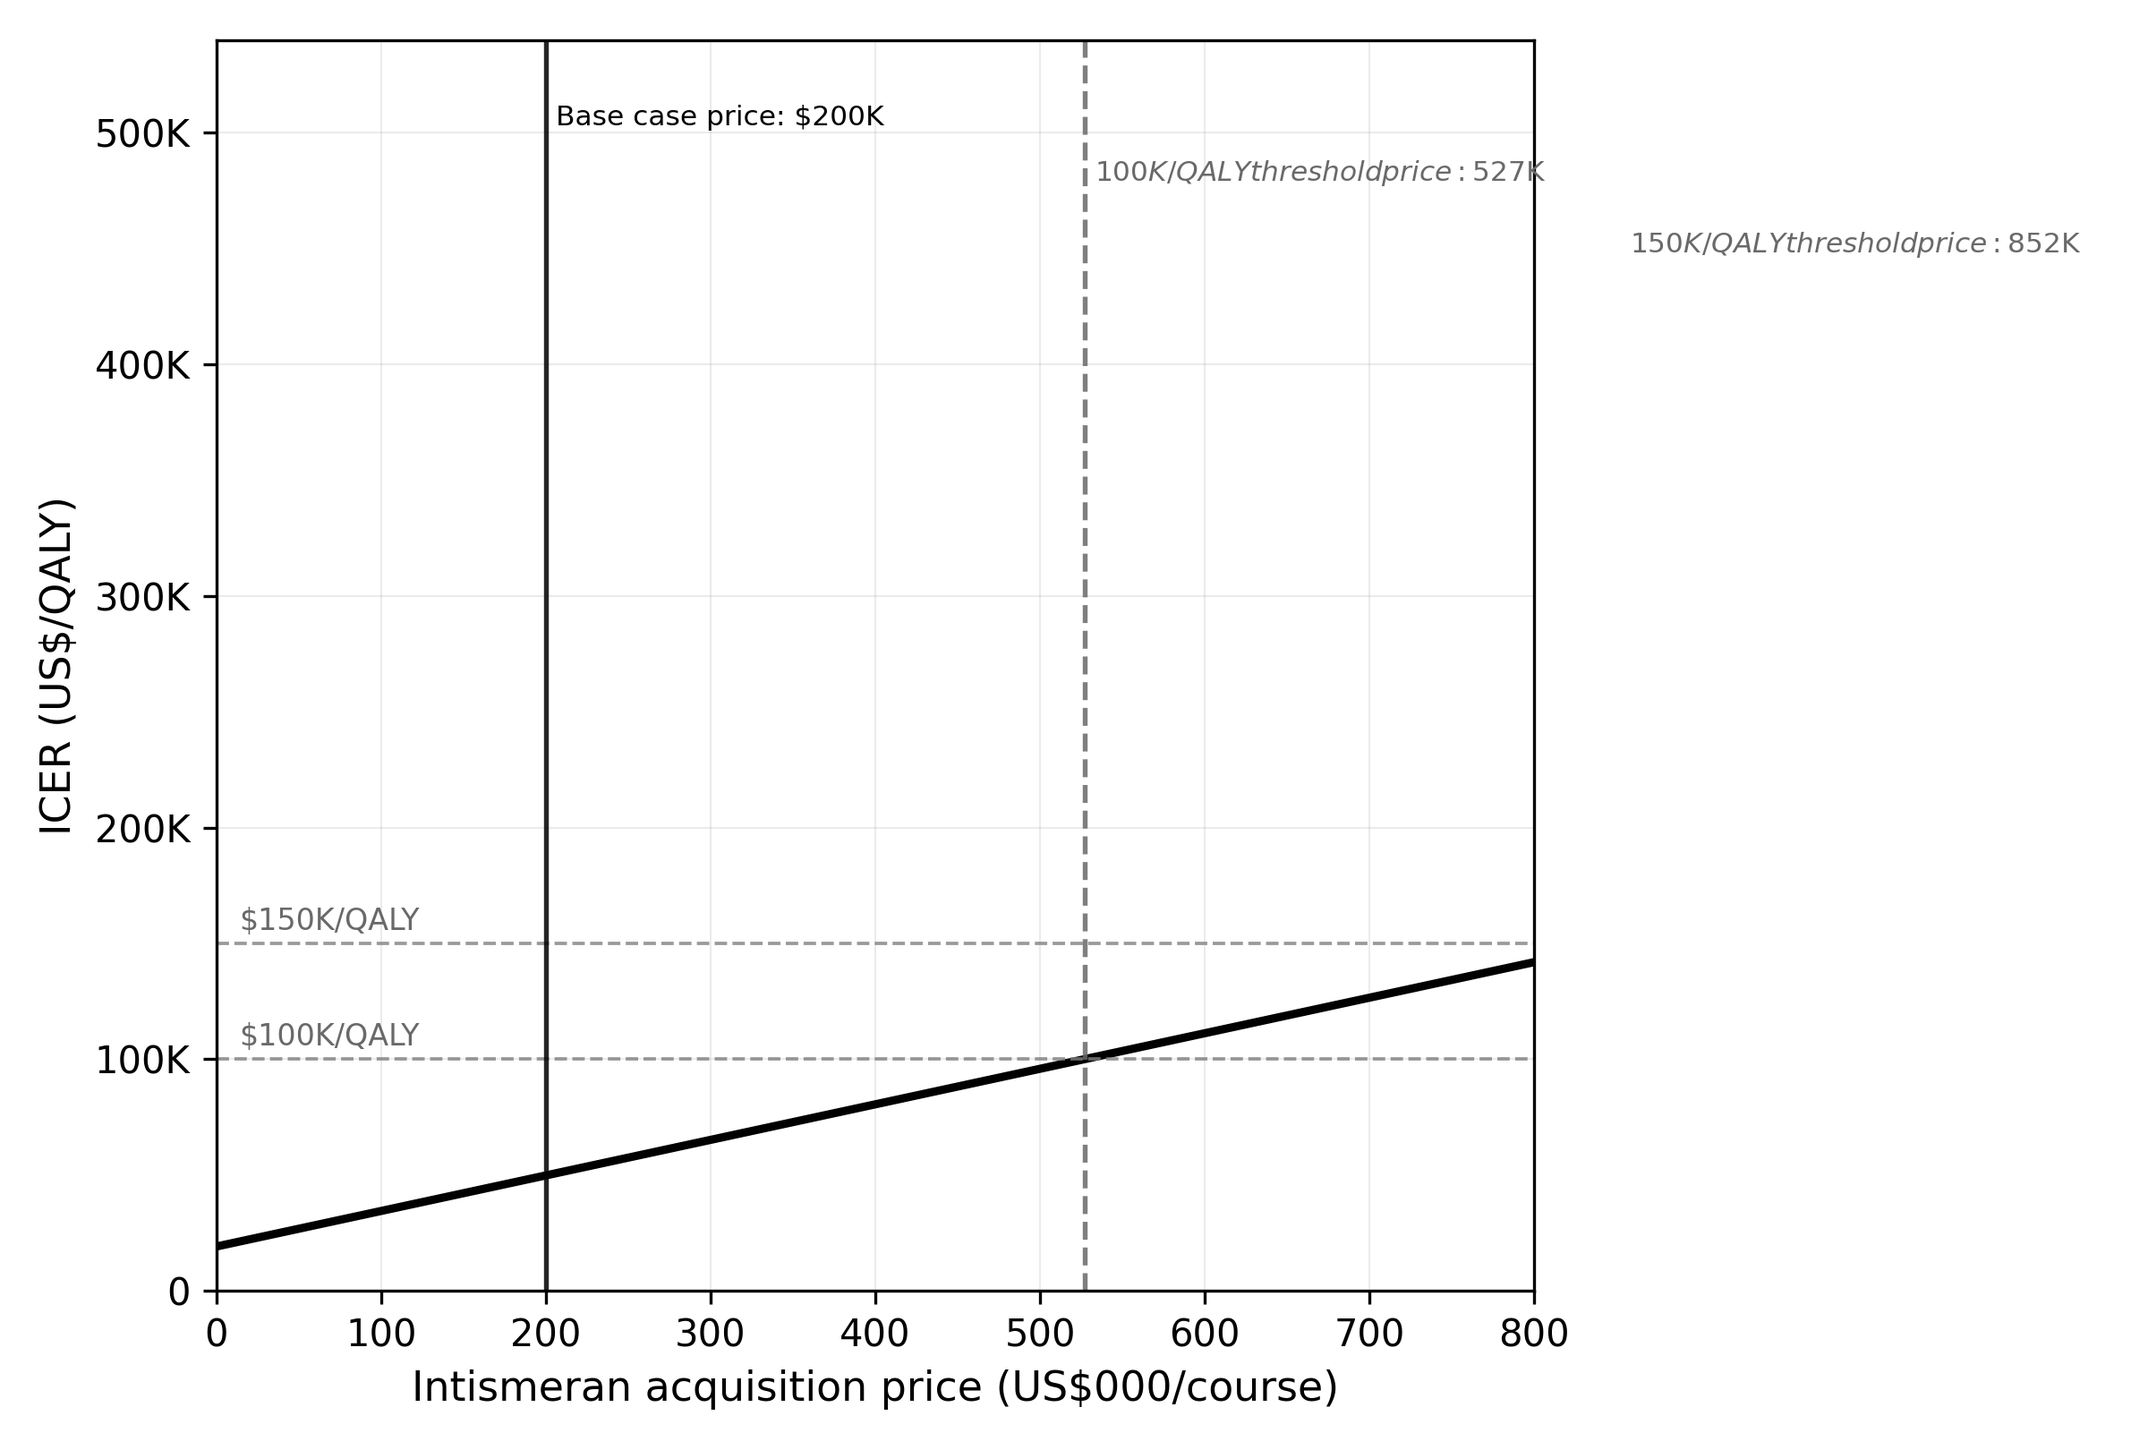
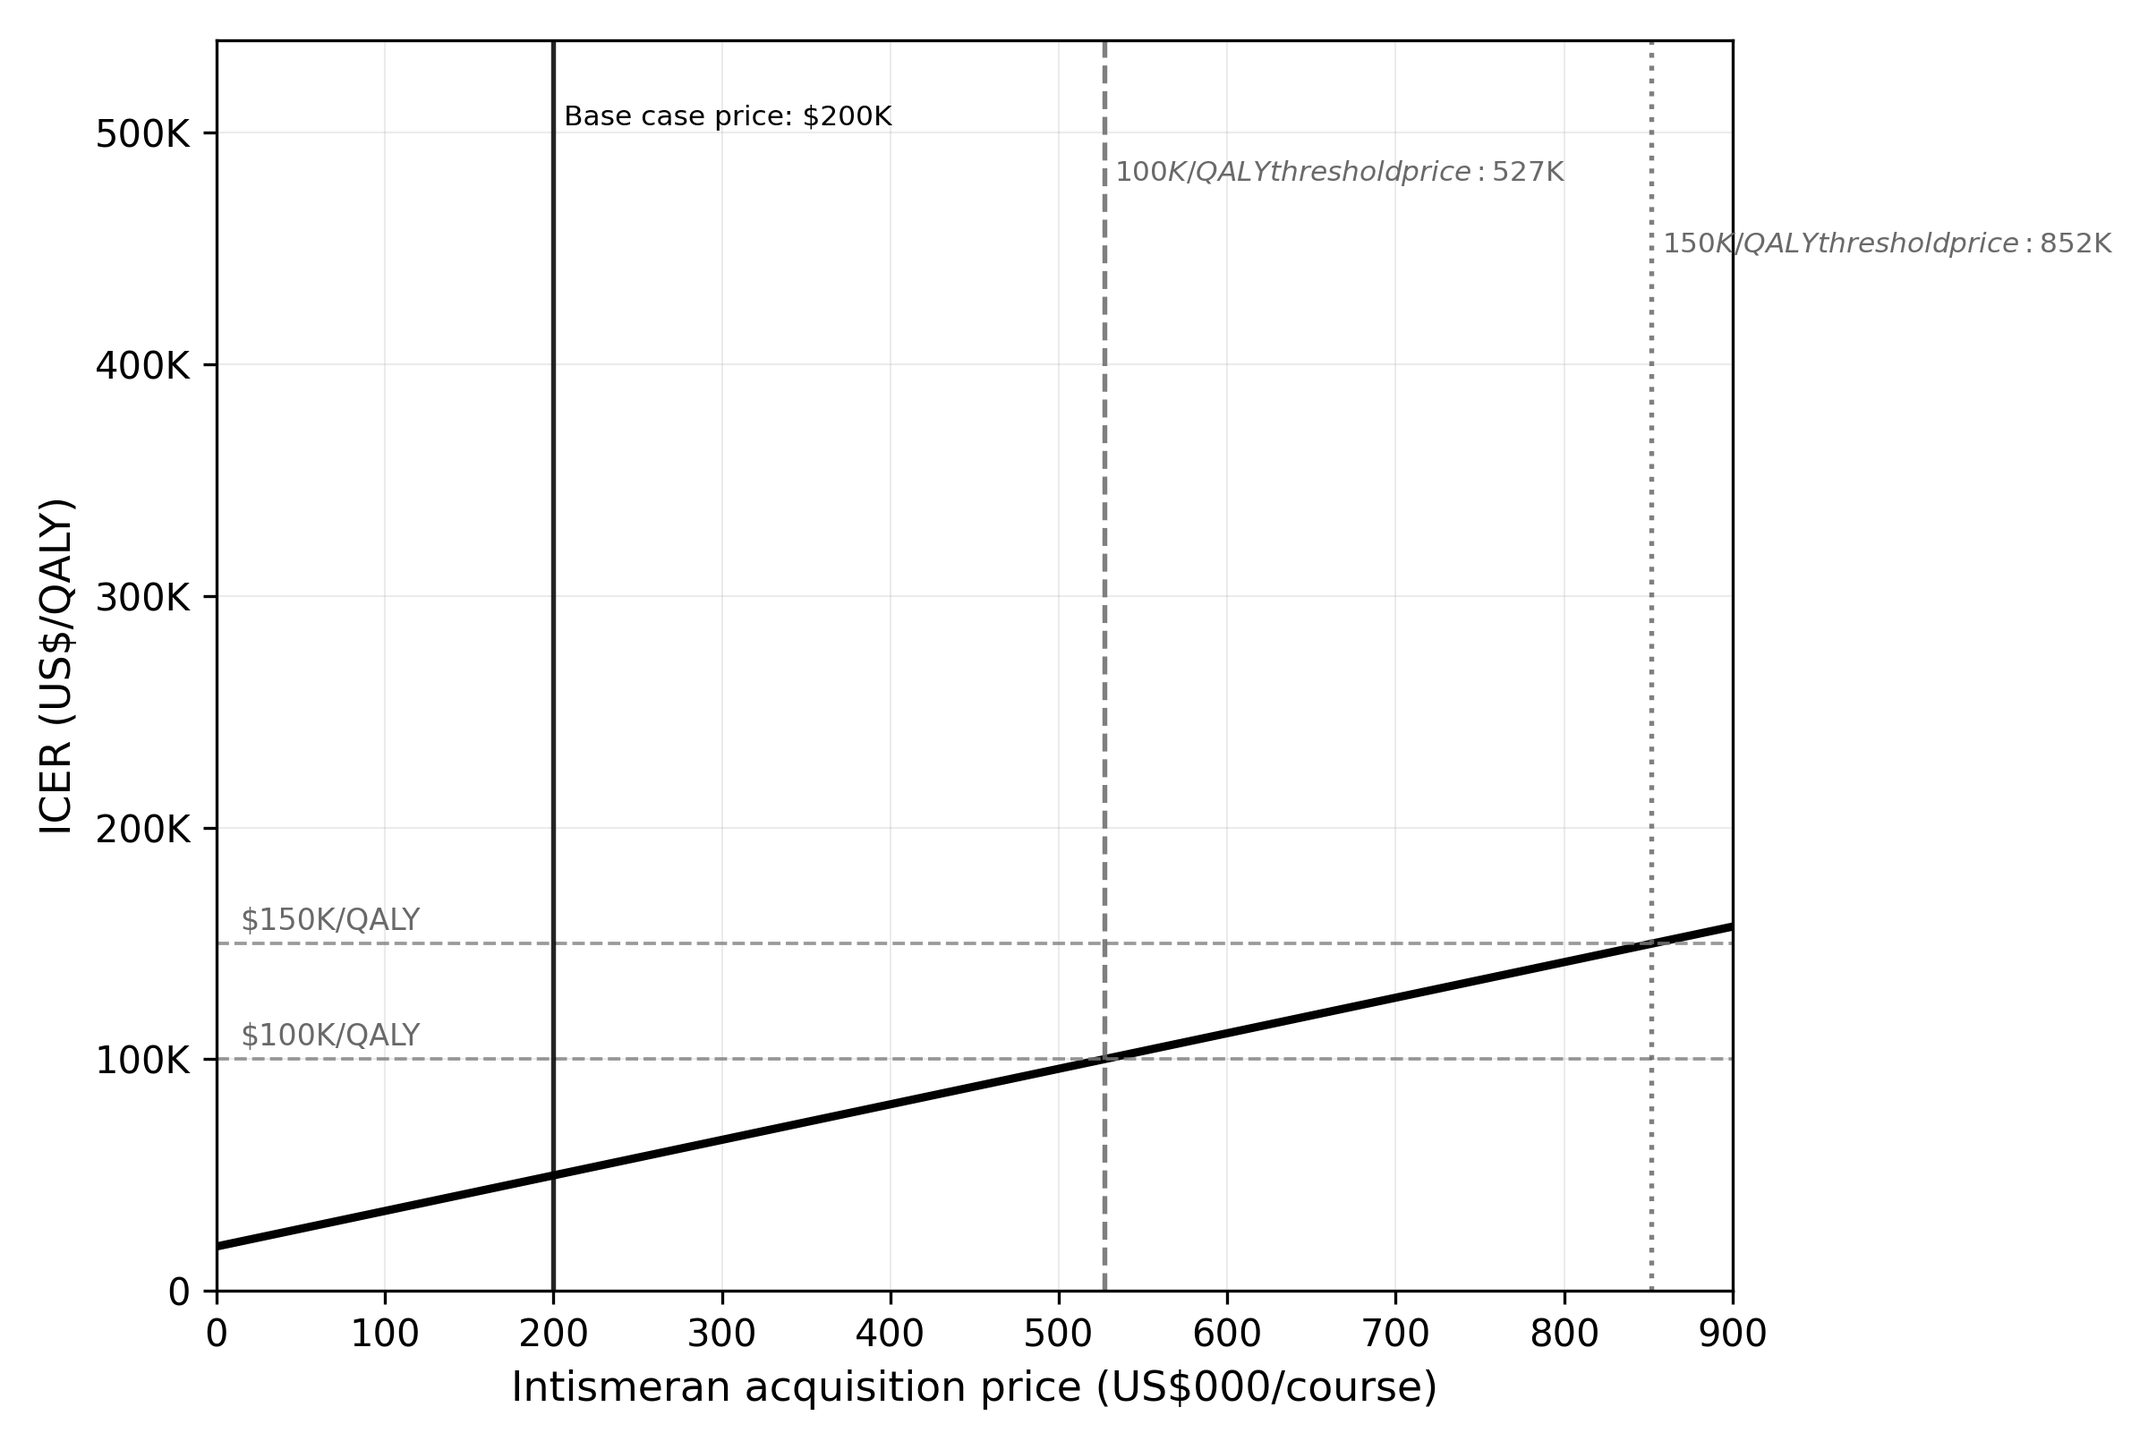
Waning V1 mechanism QA + Figure 4 x-axis + prose fixes
- gen_fig4.py: x-axis 800K->900K (901 ticks) so $852K threshold line fits
- Regenerated fig4_price_icer.png, added fig4_threshold_price.png
- manuscript.tex line 346: deleted 'incremental cost remains high',
  replaced with 'cost drops $324,765->$39,862 faster than QALYs'
- manuscript.tex line 330: replaced old 'cost offsets' narrative with
  single-mechanism QALY-driven explanation (despite higher downstream costs)
- manuscript.tex abstract: fixed 'all but' claim, added waning V1 detail
- manuscript.md abstract: same fix
- manuscript.md Discussion 4.6: mention both waning variants

Waning V1 mechanism verified:
  - Incremental cost $39,862 (base $324,765) = -88%
  - Incremental QALY 2.09 (base 6.52) = -68%
  - Cost drops faster than QALY -> ICER $19,055
  - DM cost diff -$73,374 (combo cheaper than pembro in DM)
  - Same model code path (model.py run_scenario waning=True)

diff --git a/manuscript.tex b/manuscript.tex
@@ -66,7 +66,7 @@
 
 \textbf{Methods:} A four-state partitioned survival model (recurrence-free $\rightarrow$ locoregional recurrence $\rightarrow$ distant metastasis $\rightarrow$ death) was developed with a lifetime horizon (40 years) and 3\% annual discounting. Clinical efficacy data were derived from the 5-year follow-up of the Phase 2b KEYNOTE-942 trial. Parametric survival functions (log-normal) were calibrated to RFS and OS survival probabilities at 18, 24, 36, 48, and 60 months and DMFS probabilities at 18, 24, 36, and 48 months, with the ratio-constrained structure RFS $\leq$ DMFS $\leq$ OS ensuring internal consistency. Health state utilities were derived from published melanoma EQ-5D literature (RF 0.83, LR 0.64, DM 0.55). Sensitivity analyses included probabilistic sensitivity analysis (6,000 iterations), deterministic sensitivity analysis, and scenario analyses.
 
-\textbf{Results:} In the base case, with general population mortality constraint applied from 60 months, intismeran plus pembrolizumab yielded 14.16 QALYs at a cost of \$1,070,705, compared with 7.65 QALYs at \$745,939 for pembrolizumab alone. The incremental cost-effectiveness ratio was \$49,841/QALY gained. At willingness-to-pay thresholds of \$100,000 and \$150,000/QALY, the probability of cost-effectiveness was 93.4\% and 98.4\%, respectively. The deterministic threshold price was approximately \$527,000 per course at \$100,000/QALY and \$852,000 per course at \$150,000/QALY, indicating that the ICER remains below these thresholds at more than twice the assumed acquisition price. Results were robust across a wide range of sensitivity analyses.
+\textbf{Results:} In the base case, with general population mortality constraint applied from 60 months, intismeran plus pembrolizumab yielded 14.16 QALYs at a cost of \$1,070,705, compared with 7.65 QALYs at \$745,939 for pembrolizumab alone. The incremental cost-effectiveness ratio was \$49,841/QALY gained. At willingness-to-pay thresholds of \$100,000 and \$150,000/QALY, the probability of cost-effectiveness was 93.4\% and 98.4\%, respectively. The deterministic threshold price was approximately \$527,000 per course at \$100,000/QALY and \$852,000 per course at \$150,000/QALY, indicating that the ICER remains below these thresholds at more than twice the assumed acquisition price. The base-case ICER remained below \$100,000/QALY in all tested scenarios except the hazard-convergence waning variant (\$104,247/QALY). The treatment-effect waning scenario (recurrence convergence, 5$\to$8y) yielded the most favourable ICER (\$19,055/QALY) because the recurrence-related survival advantage converged faster, reducing incremental QALYs from 6.52 to 2.09 while the \$200,000 intismeran acquisition cost was preserved.
 
 \textbf{Conclusion:} At an assumed acquisition price of \$200,000 per course, intismeran plus pembrolizumab was projected to be cost-effective under conventional US thresholds. Health gains from prolonged recurrence-free survival were the primary driver of clinical benefit, with the favorable economic result reflecting the large quality-adjusted survival gain relative to the incremental cost.
 
@@ -327,7 +327,7 @@ The economic value of the combination is generated primarily through extended re
 
 The incremental \$324,765 lifetime cost of intismeran plus pembrolizumab exceeds the \$200,000 acquisition cost of the intismeran course, because combination-arm patients survive substantially longer and thus accumulate more time in the locoregional-recurrence and distant-metastasis health states (combo LR management \$112,203 vs pembro \$74,477; combo DM management \$524,121 vs pembro \$453,082). The QALY decomposition (Table~\ref{tab:base}) shows that the 6.52 incremental QALYs are driven almost entirely by additional time in the recurrence-free health state: the combination arm generates 5.57 more RF QALYs, with a modest additional 0.67 LR QALYs and 0.27 DM QALYs reflecting longer overall survival. This asymmetry --- a large QALY gain concentrated in the highest-utility health state, outweighing the additional costs from extended survival --- is the structural mechanism behind the favourable ICER.
 
-The economic value is therefore not simply a matter of ``large QALY gain offsets upfront cost.'' The combination works through two pathways simultaneously: (i) it shifts patients from DM to RF, the highest-utility, lowest-cost state; and (ii) it compresses the time spent in DM, the highest-cost state, generating direct cost offsets. The ICER is low because the incremental expenditure is coupled to a large gain in recurrence-free quality-adjusted survival and to partial avoidance of the high cost of metastatic disease, not because the intervention is inexpensive.
+The economic value is driven by a single mechanism: extended quality-adjusted survival. The combination arm's longer survival produces a 6.52-QALY advantage concentrated in the recurrence-free state (5.57 RF QALYs gained). This occurs *despite* higher downstream management costs (\$108,765 net: \$37,726 LR + \$71,039 DM), which reflect longer survival rather than a cost-offset mechanism. The favourable ICER is therefore driven entirely by the magnitude of the QALY gain, not by avoidance of downstream disease-management costs.
 
 \subsection{Pricing and Reimbursement Implications}
 
@@ -343,7 +343,7 @@ Long-term survival extrapolation is the dominant source of structural uncertaint
 
 The necessity of the general population mortality hazard floor is best illustrated by comparing the constrained and unconstrained models. Without the GP mortality floor, the log-normal survival fit for the combination arm predicts a 30-year OS of 79.1\%, far exceeding the age- and sex-matched general population survival of 22.1\% at 30 years for the modeled cohort. This is implausible: a cohort of patients with resected stage IIIB--IV melanoma cannot have a lower mortality rate than the general population. Applying the GP mortality hazard floor from 60 months onward --- a standard practice recommended by NICE DSU TSD 14 \cite{latimer2011} and used in published melanoma CEAs \cite{zhang2023} --- reduces the 30-year combination OS to 21.5\%, a clinically plausible trajectory. The hazard floor reduces the ICER from \$51,753 (unconstrained) to \$49,841 (GP-constrained); the direction of this change is non-intuitive (the constraint reduces the ICER) because the unconstrained model predicts implausibly high survival for both arms, with a larger absolute gain for the combination arm, and the hazard floor compresses that difference while preserving the within-trial benefit.
 
-The OS uncertainty is further underscored by the treatment-effect waning scenario. When the combination's recurrence-related hazard is allowed to converge to the pembrolizumab level between years 5 and 10, the ICER falls to \$19,055/QALY --- well below the base case --- because the incremental cost is reduced more than the QALY gain (compressed from 6.52 to 2.09) while the incremental cost remains high. The base case and hazard-convergence scenario provide two structurally distinct estimates under alternative persistence assumptions.
+The OS uncertainty is further underscored by the treatment-effect waning scenarios. In the recurrence-convergence scenario (5$\to$8y), the ICER falls to \$19,055/QALY because the recurrence-related QALY advantage compresses from 6.52 to 2.09, while the \$200,000 intismeran acquisition cost is preserved -- the incremental cost therefore drops from \$324,765 to \$39,862 faster than QALYs, producing a lower ICER. The hazard-convergence scenario (5$\to$10y) yields the highest ICER of \$104,247/QALY. These two scenarios bracket the range of plausible ICER estimates under alternative treatment-persistence assumptions.
 
 Finally, the choice of parametric distribution, while important, is secondary to the structural scenarios. The log-normal distribution was selected by AIC for the combination OS curve and was applied uniformly across all components for parsimony. However, AIC measures fit within the observed 5-year follow-up; it does not establish long-term clinical validity. The Weibull alternative, which produced an ICER of \$59,959/QALY, also satisfied the structural constraints and is a plausible alternative. The most informative bounds on the ICER come not from alternative parametric forms but from the treatment-effect waning and no-direct-OS-benefit scenarios, which directly address the question: what if the treatment effect does not persist? The best AIC-ranked mixed-family combination (OS: log-normal/Weibull, r$_{\text{DM}}$: log-normal/log-logistic, r$_{\text{LR}}$: log-logistic/Weibull) produced an ICER of \$61,102, consistent with the Weibull scenario and within the range of structural uncertainty, further supporting the robustness of the base-case conclusion.
 

diff --git a/gen_fig4.py b/gen_fig4.py
@@ -15,7 +15,7 @@ def icer_at_price(price):
     dq = r["combo"]["qaly"] - r["pembro"]["qaly"]
     return dc, dq, dc / dq
 
-prices = np.linspace(0, 800_000, 161)
+prices = np.linspace(0, 900_000, 181)
 icers = np.array([icer_at_price(pr)[2] for pr in prices])
 
 fig, ax = plt.subplots(figsize=(8, 5.4))
@@ -42,9 +42,9 @@ for x, label, ls, c, lx, ly in vlines:
 
 ax.set_xlabel("Intismeran acquisition price (US$000/course)", fontsize=11)
 ax.set_ylabel("ICER (US$/QALY)", fontsize=11)
-ax.set_xlim(0, 800)
+ax.set_xlim(0, 900)
 ax.set_ylim(0, 540_000)
-ax.set_xticks(np.arange(0, 801, 100))
+ax.set_xticks(np.arange(0, 901, 100))
 ax.yaxis.set_major_formatter(lambda x, pos: f"{x/1000:.0f}K" if x else "0")
 ax.grid(alpha=0.25, linewidth=0.5)
 plt.tight_layout()

diff --git a/manuscript.md b/manuscript.md
@@ -8,7 +8,7 @@
 
 **Methods:** A four-state partitioned survival model (recurrence-free → locoregional recurrence → distant metastasis → death) was developed with a lifetime horizon (40 years) and 3% annual discounting. Clinical efficacy data were derived from the 5-year follow-up of the Phase 2b KEYNOTE-942 trial. Parametric survival functions (log-normal) were calibrated to RFS and OS survival probabilities at 18, 24, 36, 48, and 60 months and DMFS probabilities at 18, 24, 36, and 48 months, with the ratio-constrained structure RFS ≤ DMFS ≤ OS ensuring internal consistency. Health state utilities were derived from published melanoma EQ-5D literature (RF 0.83, LR 0.64, DM 0.55). Sensitivity analyses included probabilistic sensitivity analysis (6,000 iterations), deterministic sensitivity analysis, and scenario analyses.
 
-**Results:** In the base case, intismeran plus pembrolizumab yielded 14.16 QALYs at a cost of $1,070,705, compared with 7.65 QALYs at $745,939 for pembrolizumab alone. The incremental cost-effectiveness ratio was $49,841/QALY gained. At willingness-to-pay thresholds of $100,000 and $150,000/QALY [23], the mean incremental net monetary benefit was $326,840 and $652,643, respectively. Results were robust across structural scenario analyses, with the base-case ICER remaining below $100,000/QALY in all but the treatment-effect waning scenario.
+**Results:** In the base case, intismeran plus pembrolizumab yielded 14.16 QALYs at a cost of $1,070,705, compared with 7.65 QALYs at $745,939 for pembrolizumab alone. The incremental cost-effectiveness ratio was $49,841/QALY gained. At willingness-to-pay thresholds of $100,000 and $150,000/QALY [23], the mean incremental net monetary benefit was $326,840 and $652,643, respectively. Results were robust across structural scenario analyses: the ICER remained below $100,000/QALY in all tested scenarios except the hazard-convergence waning variant ($104,247/QALY). The recurrence-convergence waning scenario (5\$	o\y) yielded the most favourable ICER ($19,055/QALY) because QALY gains compressed from 6.52 to 2.09 while the $200,000 intismeran acquisition cost was preserved, reducing incremental cost from $324,765 to $39,862 faster than the QALY gain.
 
 **Conclusion:** At an assumed acquisition price of $200,000 per course, intismeran plus pembrolizumab was projected to be cost-effective under conventional US thresholds. The favourable ICER was driven entirely by a 6.52-QALY survival gain from prolonged recurrence-free survival, despite higher lifetime downstream disease-management costs associated with longer survival.
 
@@ -209,7 +209,7 @@ The comparison with the 2024 exploratory analysis [14] is more informative but r
 
 The pembrolizumab-alone arm predictions were compared against published long-term adjuvant melanoma data to assess the plausibility of the extrapolated survival trajectories, rather than to require an exact match. The KEYNOTE-942 trial enrolled a higher-risk population (stage IIIB--IV, including resected stage IV) than KEYNOTE-054 (stage IIIA--C) and CheckMate 238 (stage IIIB--IV, but with different entry criteria). The model's lower 7-year RFS for the pembrolizumab arm (31.7% vs 50% in KEYNOTE-054) is therefore expected and reflects the underlying risk differences rather than a failure of calibration. The model correctly reproduces the 5-year OS and DMFS of the pembrolizumab arm, supporting the structural validity of the PSM framework.
 
-No external long-term data exist for the combination arm (first-in-class therapy). The positive Phase 3 INTerpath-001 readout provides directional confirmation of the clinical benefit of intismeran plus pembrolizumab, but the numerical hazard ratios have not yet been disclosed, and the extent to which Phase 3 results will align with the Phase 2b KEYNOTE-942 estimates used in this model remains to be determined. Two structural scenarios address the uncertainty in the combination arm: (i) the treatment-effect waning scenario (ICER $104,247/QALY with hazard convergence at 5→10y); and (ii) the no-direct-OS-benefit scenario, an OS-neutral structural scenario in which intismeran plus pembrolizumab remained dominant (−$43,589/QALY, lower cost and higher QALY) compared with pembrolizumab alone, indicating that the base-case conclusion does not rely on a direct OS benefit but can be supported by recurrence prevention alone.
+No external long-term data exist for the combination arm (first-in-class therapy). The positive Phase 3 INTerpath-001 readout provides directional confirmation of the clinical benefit of intismeran plus pembrolizumab, but the numerical hazard ratios have not yet been disclosed, and the extent to which Phase 3 results will align with the Phase 2b KEYNOTE-942 estimates used in this model remains to be determined. Two structural scenarios address the uncertainty in the combination arm: (i) the treatment-effect waning scenarios: recurrence-convergence at 5→8y (ICER $19,055/QALY, most favourable) and hazard-convergence at 5→10y (ICER $104,247/QALY, least favourable); and (ii) the no-direct-OS-benefit scenario, an OS-neutral structural scenario in which intismeran plus pembrolizumab remained dominant (−$43,589/QALY, lower cost and higher QALY) compared with pembrolizumab alone, indicating that the base-case conclusion does not rely on a direct OS benefit but can be supported by recurrence prevention alone.
 
 ### 4.7 Limitations
 
